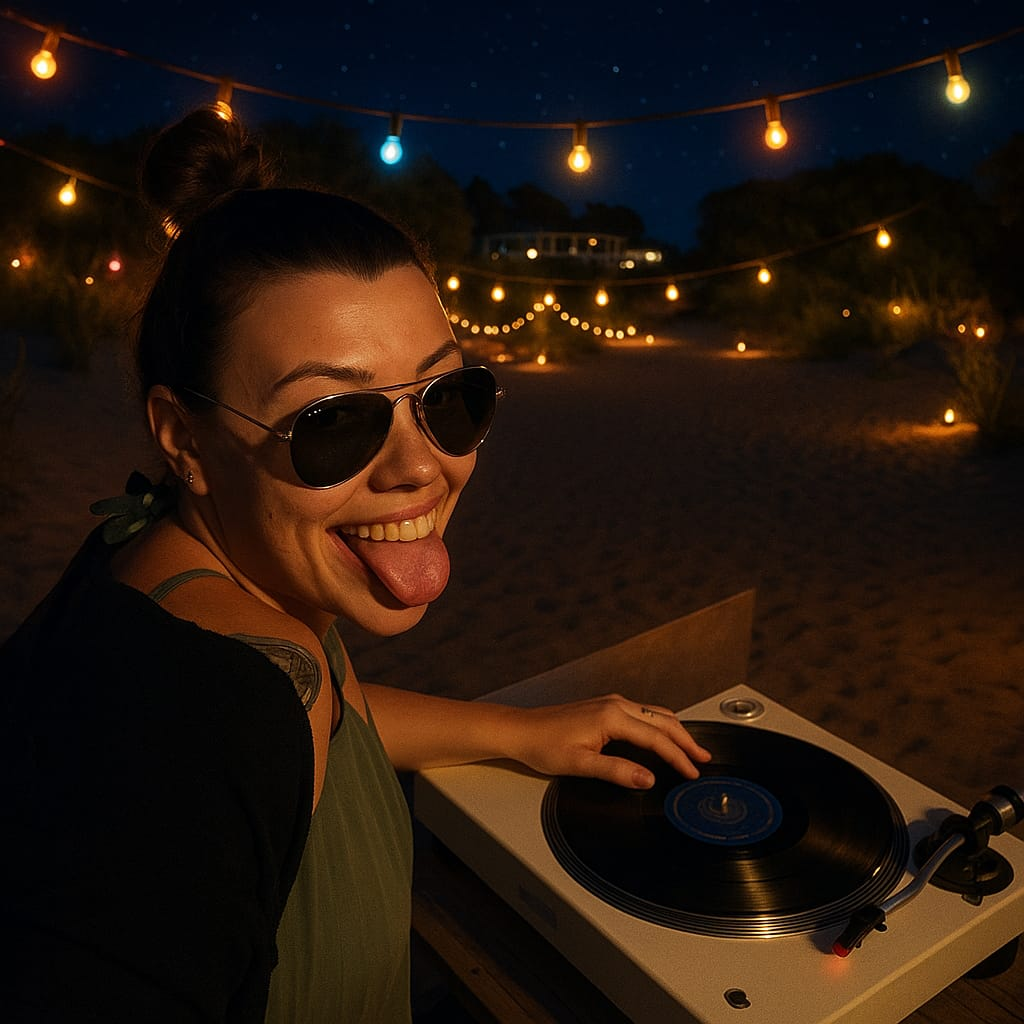
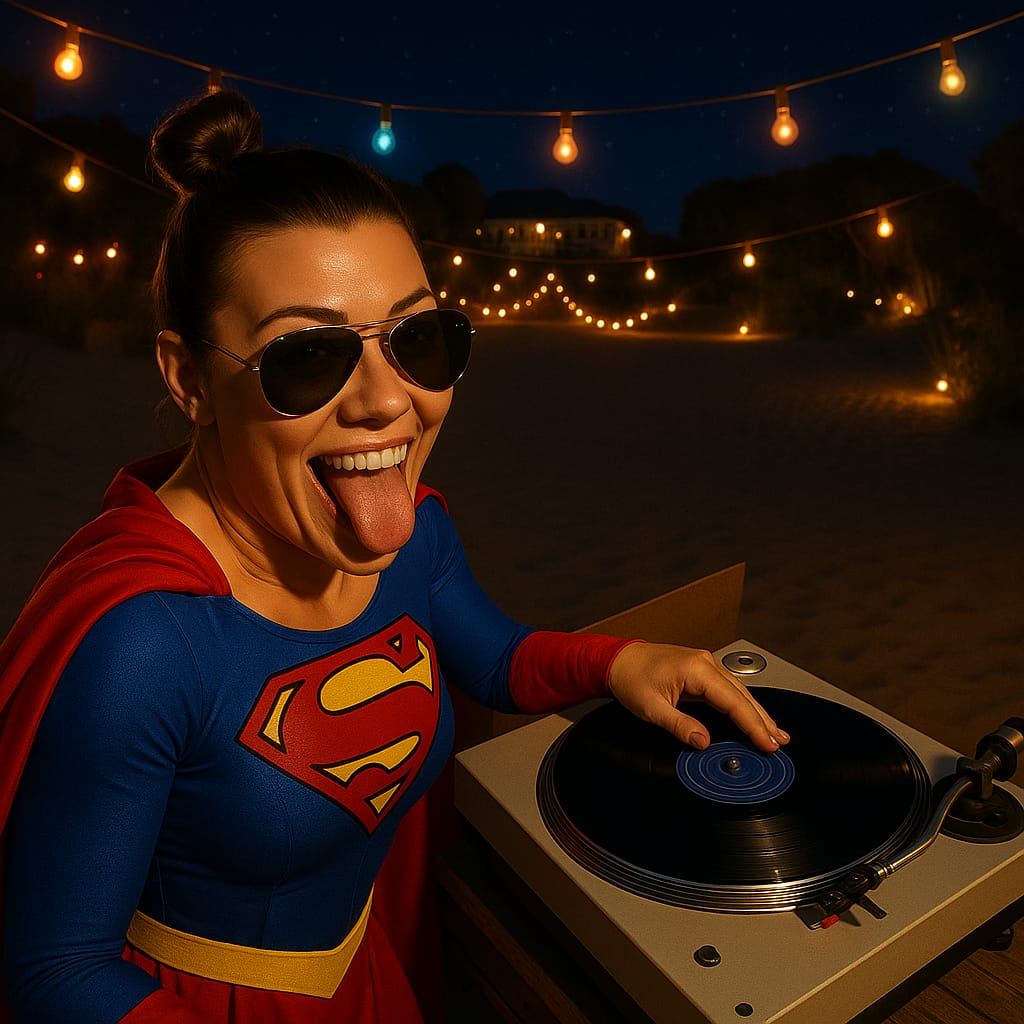
Add files via upload

diff --git a/index.html b/index.html
@@ -69,14 +69,16 @@
 
     <section class="drink">
         <h2>THE DRINK</h2>
-        <img src="img-main/thedrink1.jpeg" alt="Super Flor Drink">
-        <h3>Super Flor Smash</h3>
-        <p><em>"Even heroes need a birthday toast!"</em> </p>
+        <img src="img-main/thedrink1.jpeg" alt="Kryptonite Drink">
+        <h3>Kryptonite Cooler</h3>
+        <p><em>"Even heroes need a birthday toast!"</em></p>
         <p>
-            A daring and heroic blend designed to power up any superhero celebration.
-            Bold, colorful, and full of energy—this drink is Flor-approved and ready to save the party!
+            Packed with supercharged flavors and a hint of green power, the Kryptonite Cooler is ready to fuel Flor’s
+            superhero celebration.
+            Bold, vibrant, and Flor-approved, every sip gives you the energy to save the party in true superhero style!
         </p>
     </section>
+
 
 
     <section class="section-separator">
@@ -86,7 +88,7 @@
     <section class="snack">
         <h2>THE CAKE</h2>
         <img src="img-main/thecake.jpeg" alt="Super Flor Chocolate Cake">
-        <h3>Super Flor Chocolate Cake</h3>
+        <h3>SuperFlor Chocolate Cake</h3>
         <p><em>“Even heroes can’t resist a slice.”</em></p>
         <p>
             This year, Flor’s birthday calls for a chocolate cake worthy of a superhero!
@@ -104,13 +106,13 @@
 
     <section class="music">
         <h2>THE MUSIC</h2>
-        <img src="img-main/themusic.jpeg" alt="MC Errol">
-        <h3>MC Errol to the Rescue!</h3>
+        <img src="img-main/themusic.jpeg" alt="DJess">
+        <h3>Oh Hi, DJess!</h3>
         <p><em>“Faster than a speeding record, more powerful than a bass drop!”</em></p>
         <p>
-            This Saturday, MC Errol is flying in to save Flor’s birthday from any hint of boredom.
-            With superhuman beats, heroic rhymes, and the power to make even Kryptonians dance,
-            he’s here to turn the party into a true Metropolis-level celebration!
+            Even from Brazil, DJess will be performing this Saturday, crafting the ultimate playlist to make Flor’s
+            birthday celebration legendary.
+            With superhuman beats and heroic vibes, she’ll ensure every moment is a party worthy of a superhero!
         </p>
     </section>
 
